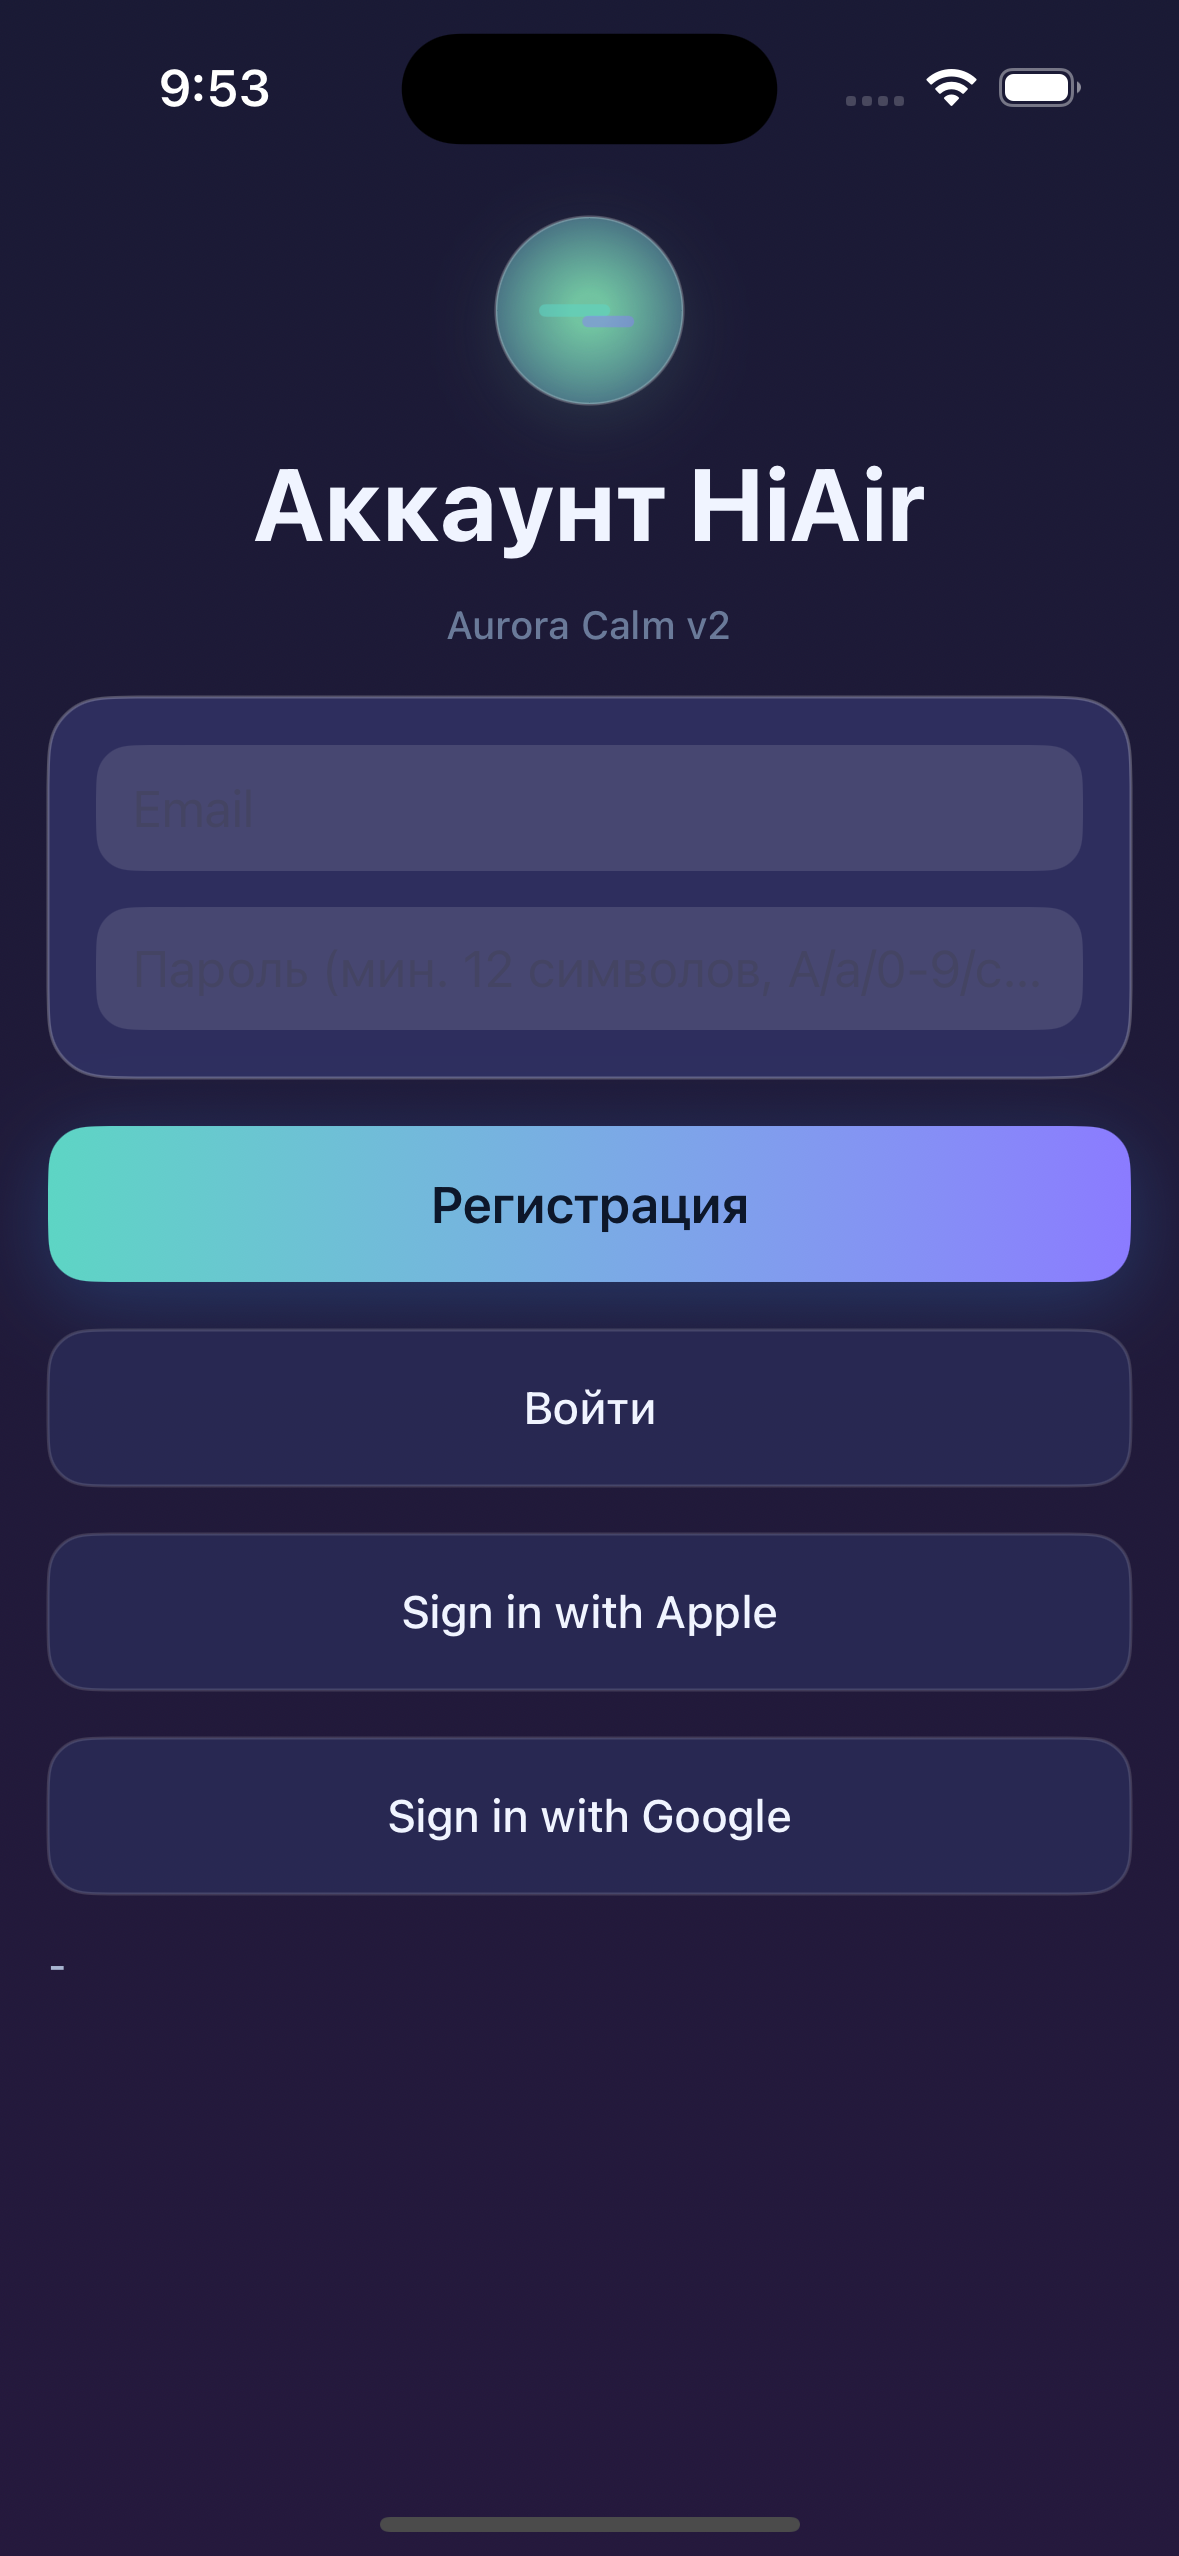
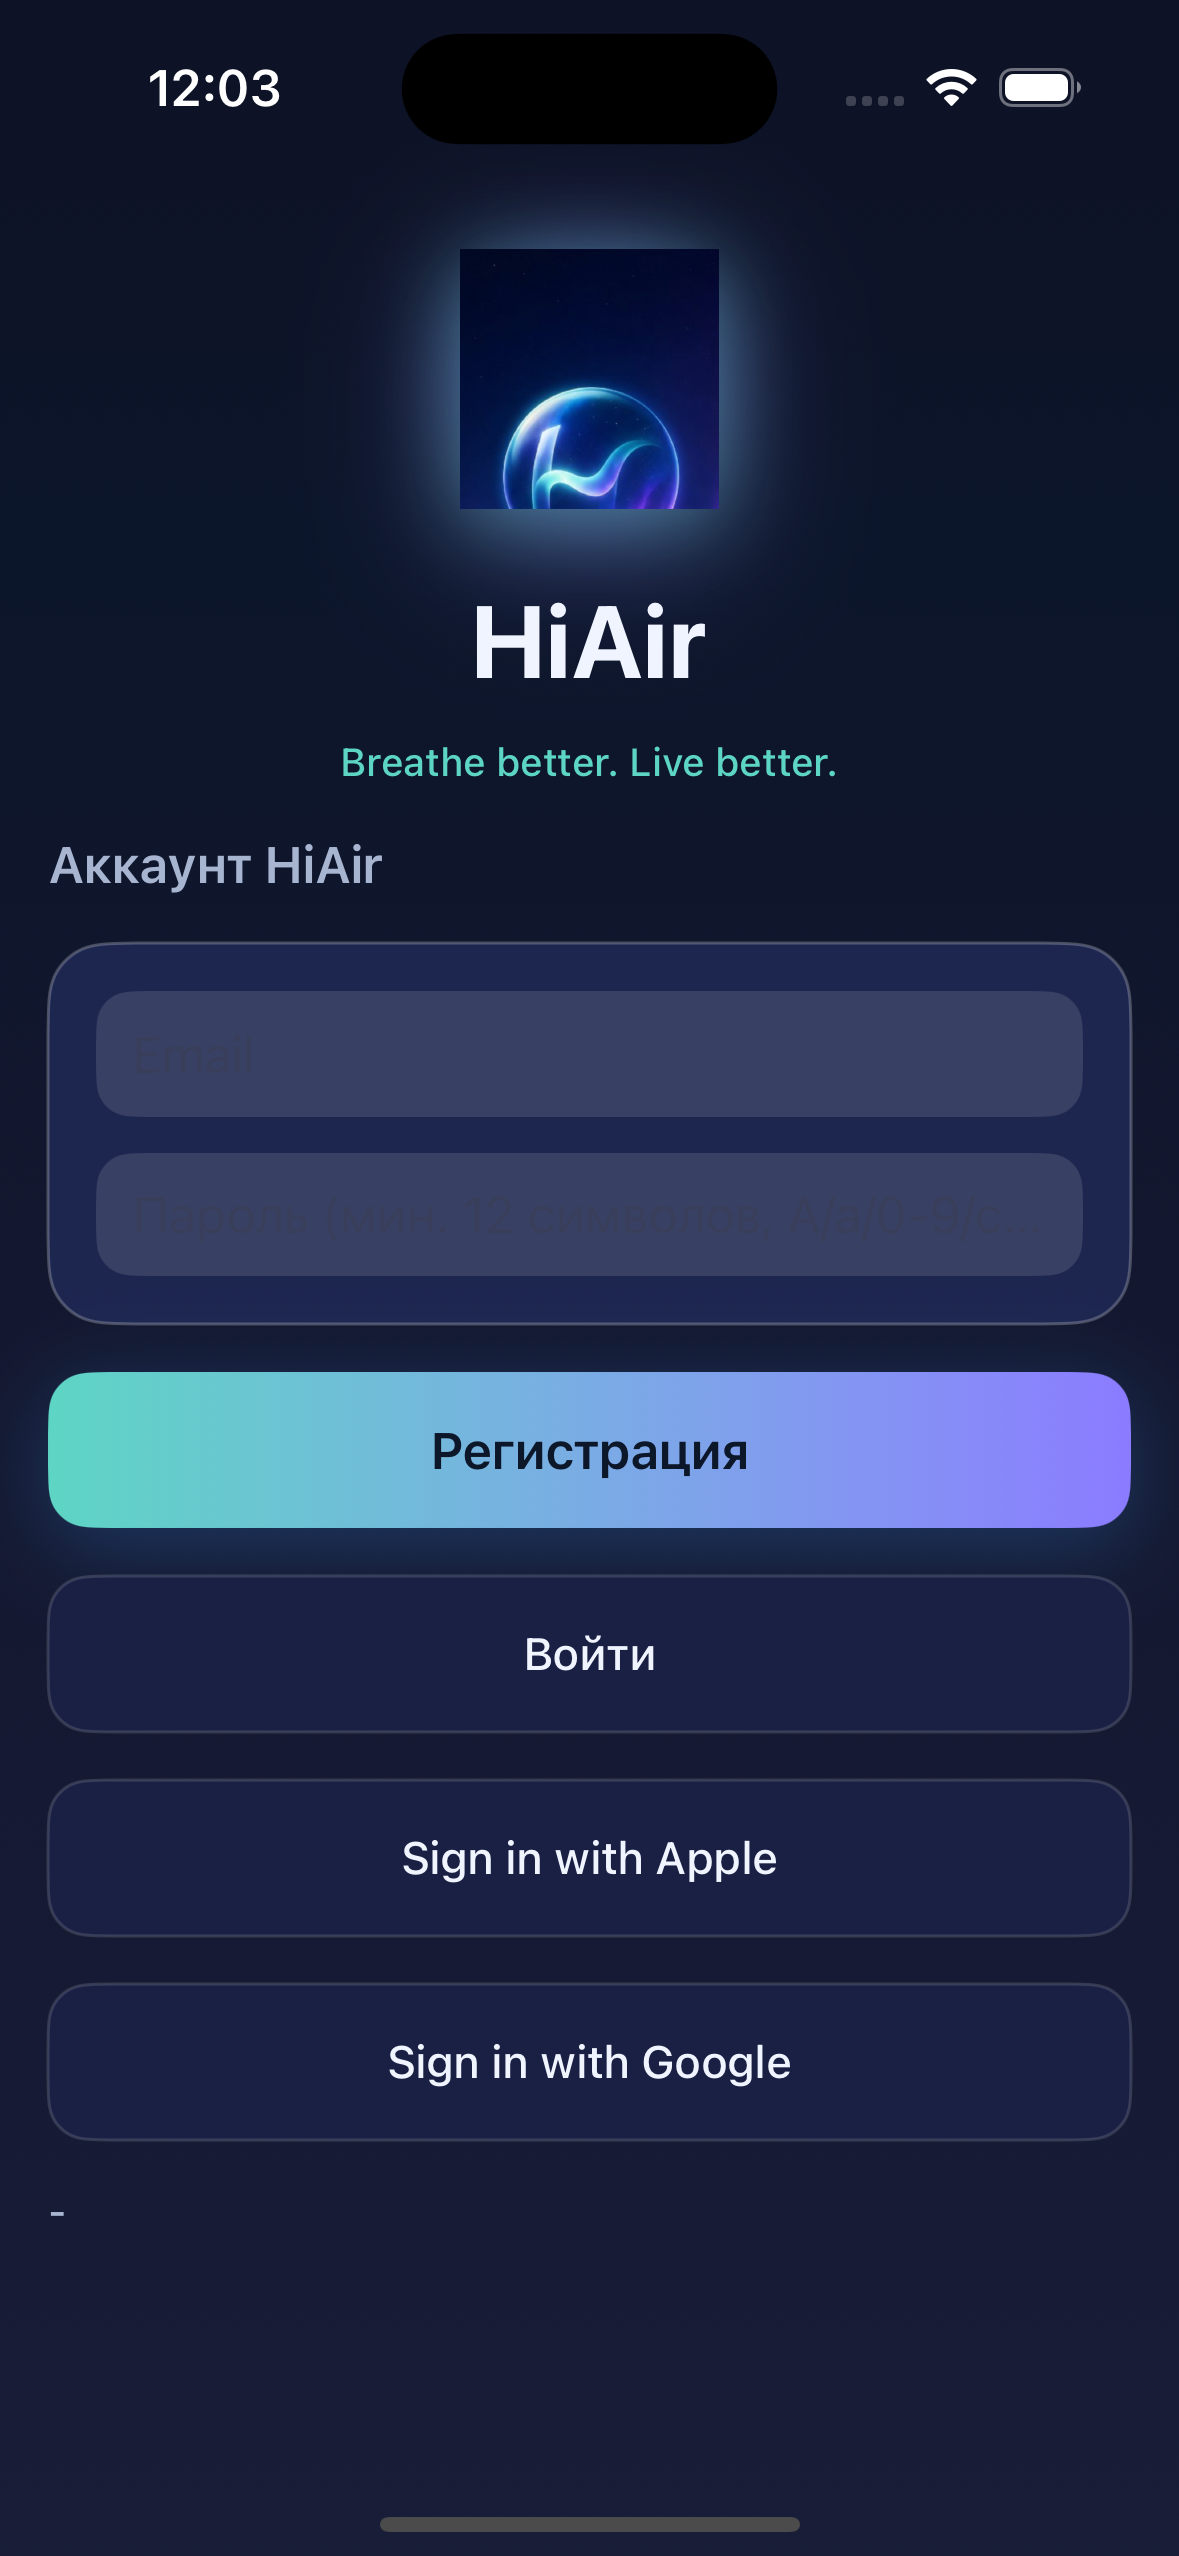
docs(brand): refresh QA screenshot and report after gauge/launch polish
Capture updated auth screen with mockup orb and document PR #21 CI green.

diff --git a/docs/brand/HiAir-brand-kit-system-redesign-report.md b/docs/brand/HiAir-brand-kit-system-redesign-report.md
@@ -125,9 +125,18 @@ None blocking.
 ## Remaining visual debt
 
 - iPad tablet screenshot pending (CoreSimulator boot error on dev machine)
-- Final HiAir Orb marketing artwork pending design export (placeholder orb icon generated programmatically)
-- Manual adaptive QA on SE / Pro Max / iPad / Android tablet emulators not fully executed
+- Manual adaptive QA on Android tablet emulators not fully executed
 - Android lacks dedicated Onboarding/Auth screens (pre-existing product gap)
+- Rich Symptoms/Insights/Planner layouts vs full marketing mockups (optional polish)
+
+## Step 10 completion (2026-05-27)
+
+- **HiAirRiskGaugeView** — aurora ring hero on iOS + Android Dashboard
+- **Compact brand header** on Dashboard (both platforms)
+- **Android weather orb** → brand PNG (`brandOrbView`)
+- **LaunchScreen** — HiAirOrb image + cyan tagline
+- **PR #21 CI:** Android + iOS build/test/lint **green**
+- Fresh screenshot: `docs/brand/screenshots/ios/standard/dashboard.png`
 
 ## Step 9 completion (2026-05-27)
 
